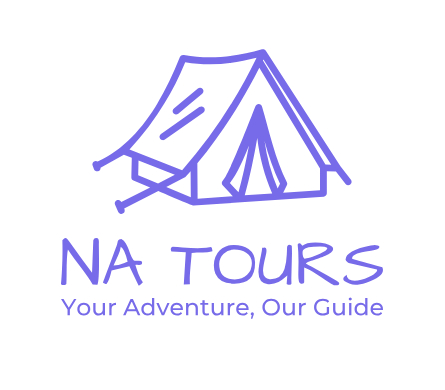
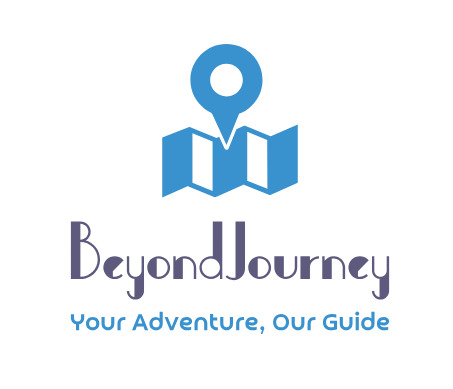
fix

Changed region(s): [[0.1169, 0.5553, 0.8764, 0.8638], [0.2045, 0.0925, 0.7888, 0.5553]]

diff --git a/Frontend/src/pages/Homepage.jsx b/Frontend/src/pages/Homepage.jsx
@@ -1,0 +1,168 @@
+import React from 'react';
+import { Box, Typography, Button, TextField, Select, MenuItem, IconButton,FormControl, InputLabel } from '@mui/material';
+import { useForm, Controller } from 'react-hook-form';
+import SearchIcon from '@mui/icons-material/Search';
+import AccountCircleIcon from '@mui/icons-material/AccountCircle';
+import ShoppingCartIcon from '@mui/icons-material/ShoppingCart';
+import logo from '../assets/tourname.jpg'
+import { useNavigate } from 'react-router-dom'; 
+
+export const Homepage = () => {
+  const { control, handleSubmit } = useForm();
+  const navigate = useNavigate();
+
+  const onSubmit = (data) => {
+    console.log(data);
+  };
+
+  return (
+        <Box sx={{ minHeight: '100vh', padding: '20px' }}>
+          
+          <Box
+            component="header"
+            sx={{
+              position: 'sticky',
+              top: 0,
+              zIndex: 1000,
+              backgroundColor: 'white',
+              padding: '10px 20px',
+              display: 'flex',
+              justifyContent: 'space-between',
+              alignItems: 'center',
+            }}
+          >
+            <img src={logo} alt="Logo" style={{ width: '200px', height: 'auto'}} />
+
+            <Box sx={{ display: 'flex', gap: 8 }}>
+              <Button>Destinations</Button>
+              <Button>Travel Styles</Button>
+              <Button>Travel Deals</Button>
+              <Button>About Us</Button>
+              </Box>
+              <Box sx={{ display: 'flex', gap: 3}}>
+          <IconButton color="inherit">
+            <SearchIcon />
+          </IconButton>
+          <IconButton color="inherit" onClick={() => navigate('/login')}>
+            <AccountCircleIcon />
+          </IconButton>
+          <IconButton color="inherit">
+            <ShoppingCartIcon />
+          </IconButton>
+        </Box>
+            
+          </Box>
+
+          {/* Main Banner */}
+          <Box sx={{ textAlign: 'center', margin: '40px 0' }}>
+            <Typography variant="h4" sx={{ fontWeight: 'bold', marginTop: '10px', color: 'black' }}>
+              Find your tour
+            </Typography>
+            <Typography variant="body1" sx={{ color: 'black', marginTop: '20px' }}>
+              Have a dream destination in mind? Whether you want to follow your appetite to Tuscany or go wild in America's greatest national parks, our guided tour packages will get you there.
+            </Typography>
+          </Box>
+
+          {/* Filters with Dropdowns */}
+          <Box sx={{ display: 'flex', justifyContent: 'center', gap: 2, marginBottom: '30px' }}>
+            <FormControl variant="outlined" sx={{ minWidth: 150 }}>
+              <InputLabel>Destinations</InputLabel>
+              <Select label="Destinations">
+                <MenuItem value="Europe">Europe</MenuItem>
+                <MenuItem value="Asia">Asia</MenuItem>
+                <MenuItem value="Africa">Africa</MenuItem>
+              </Select>
+            </FormControl>
+
+            <FormControl variant="outlined" sx={{ minWidth: 150 }}>
+              <InputLabel>Dates</InputLabel>
+            </FormControl>
+
+            <FormControl variant="outlined" sx={{ minWidth: 150 }}>
+              <InputLabel>Duration</InputLabel>
+              <Select label="Duration">
+                <MenuItem value="1 Week">1 Week</MenuItem>
+                <MenuItem value="2 Weeks">2 Weeks</MenuItem>
+                <MenuItem value="1 Month">1 Month</MenuItem>
+              </Select>
+            </FormControl>
+
+            <FormControl variant="outlined" sx={{ minWidth: 150 }}>
+              <InputLabel>Price</InputLabel>
+              <Select label="Price">
+                <MenuItem value="$1000">$1000</MenuItem>
+                <MenuItem value="$2000">$2000</MenuItem>
+                <MenuItem value="$3000">$3000</MenuItem>
+              </Select>
+            </FormControl>
+
+            <FormControl variant="outlined" sx={{ minWidth: 150 }}>
+              <InputLabel>Activity level</InputLabel>
+              <Select label="Activity level">
+                <MenuItem value="Easy">Easy</MenuItem>
+                <MenuItem value="Moderate">Moderate</MenuItem>
+                <MenuItem value="Challenging">Challenging</MenuItem>
+              </Select>
+            </FormControl>
+
+            <FormControl variant="outlined" sx={{ minWidth: 150 }}>
+              <InputLabel>Sort</InputLabel>
+              <Select label="Sort">
+                <MenuItem value="Price Low to High">Price Low to High</MenuItem>
+                <MenuItem value="Price High to Low">Price High to Low</MenuItem>
+                <MenuItem value="Popularity">Popularity</MenuItem>
+              </Select>
+            </FormControl>
+          </Box>
+
+          {/* Form Section */}
+          <Box sx={{ display: 'flex', justifyContent: 'center', flexDirection: 'column', alignItems: 'center', marginBottom: '30px' }}>
+            <form onSubmit={handleSubmit(onSubmit)} style={{ display: 'flex', flexDirection: 'column', gap: '10px' }}>
+              <Controller
+                name="destination"
+                control={control}
+                defaultValue=""
+                render={({ field }) => (
+                  <TextField {...field} label="Destination" variant="outlined" />
+                )}
+              />
+              <Controller
+                name="date"
+                control={control}
+                defaultValue=""
+                render={({ field }) => (
+                  <TextField {...field} label="Date" type="date" InputLabelProps={{ shrink: true }} variant="outlined" />
+                )}
+              />
+              <Controller
+                name="duration"
+                control={control}
+                defaultValue=""
+                render={({ field }) => (
+                  <TextField {...field} label="Duration" variant="outlined" />
+                )}
+              />
+              <Controller
+                name="price"
+                control={control}
+                defaultValue=""
+                render={({ field }) => (
+                  <TextField {...field} label="Price" variant="outlined" />
+                )}
+              />
+              <Controller
+                name="activityLevel"
+                control={control}
+                defaultValue=""
+                render={({ field }) => (
+                  <TextField {...field} label="Activity Level" variant="outlined" />
+                )}
+              />
+              <Button variant="contained" type="submit" color="primary">Search</Button>
+            </form>
+          </Box>
+        </Box>
+  );
+};
+
+export default Homepage;

diff --git a/Frontend/public/index.html b/Frontend/public/index.html
@@ -1,16 +1,13 @@
 <!DOCTYPE html>
 <html lang="en">
   <head>
-    <link
-      href="https://fonts.googleapis.com/css2?family=Libre+Baskerville:wght@400;700&display=swap"
-      rel="stylesheet"
-    />
+    <link href="https://fonts.googleapis.com/css2?family=Libre+Baskerville:ital,wght@0,400;0,700;1,400&display=swap" rel="stylesheet">
     <meta charset="utf-8" />
     <link rel="icon" href="/Frontend/src/assets/toursquare.jpg" />
     <meta name="viewport" content="width=device-width, initial-scale=1" />
     <meta name="theme-color" content="#000000" />
 
-    <link rel="apple-touch-icon" href="%PUBLIC_URL%/logo192.png" />
+    <link rel="logo" href="../src/assets/tourname.jpg" />
     <!--
       manifest.json provides metadata used when your web app is installed on a
       user's mobile device or desktop. See https://developers.google.com/web/fundamentals/web-app-manifest/
@@ -25,7 +22,7 @@
       work correctly both with client-side routing and a non-root public URL.
       Learn how to configure a non-root public URL by running `npm run build`.
     -->
-    <title>Natours</title>
+    <title>BeyondJourney</title>
   </head>
   <body>
     <div id="root"></div>

diff --git a/Frontend/src/pages/Login.jsx b/Frontend/src/pages/Login.jsx
@@ -5,12 +5,10 @@ import {
   TextField,
   Typography,
   Link,
-  ThemeProvider,
 } from "@mui/material";
 import { useForm } from "react-hook-form";
 import { useNavigate } from "react-router-dom";
 import logo from "../assets/toursquare.jpg";
-import theme from "../context/theme";
 import pic1 from "../assets/pic/pic1.jpg";
 import pic2 from "../assets/pic/pic2.jpg";
 import pic3 from "../assets/pic/pic3.jpg";
@@ -93,7 +91,7 @@ export const Login = () => {
             <img
               src={logo}
               alt="Logo"
-              style={{ width: "128px", height: "auto", marginBottom: "10px" }}
+              style={{ width: "300px", height: "auto", marginBottom: "10px" }}
             />
           </Box>
 

diff --git a/Frontend/src/routes/Routes.js b/Frontend/src/routes/Routes.js
@@ -7,14 +7,16 @@ import {
 import Login from "../pages/Login";
 import SignUp from "../pages/Signup";
 import ErrorPage from "../pages/ErrorPage";
+import Homepage from "../pages/Homepage";
 
 export const Routes = () => {
   return (
     <BrowserRouter>
       <RouteComponent>
-        <Route path="/" element={<Login />} />
+        <Route path="/login" element={<Login />} />
         <Route path="/signup" element={<SignUp />} />
         <Route path="*" element={<ErrorPage />} />
+        <Route path="/" element={<Homepage/>} />
       </RouteComponent>
     </BrowserRouter>
   );

diff --git a/Frontend/src/App.jsx b/Frontend/src/App.jsx
@@ -1,7 +1,15 @@
 import { Routes } from "./routes/Routes";
 import "./index.css";
+import { ThemeProvider } from "@emotion/react";
+import theme from "./context/theme";
 function App() {
-  return <Routes />;
+  return (
+    <ThemeProvider theme = {theme}>
+      
+  <Routes />
+  </ThemeProvider>
+  )
+
 }
 
 export default App;

diff --git a/Frontend/src/pages/Signup.jsx b/Frontend/src/pages/Signup.jsx
@@ -96,7 +96,7 @@ export const SignUp = () => {
               <img
                 src={logo}
                 alt="Logo"
-                style={{ width: "128px", height: "auto", marginBottom: "10px" }}
+                style={{ width: "300px", height: "auto", marginBottom: "10px" }}
               />
             </Box>
 
